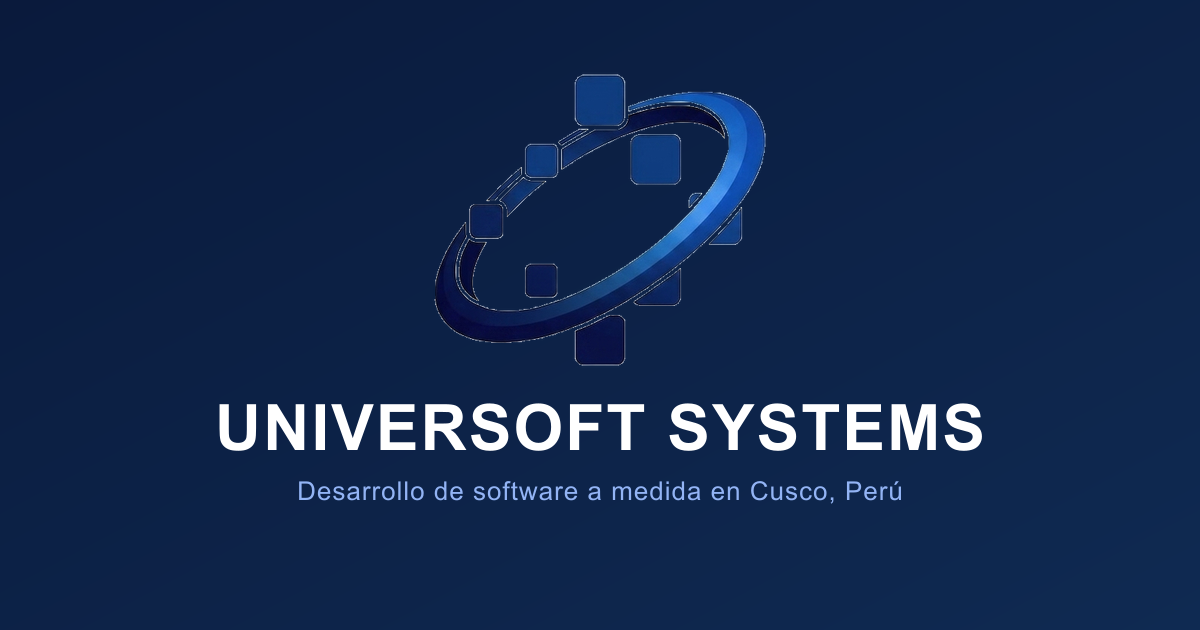
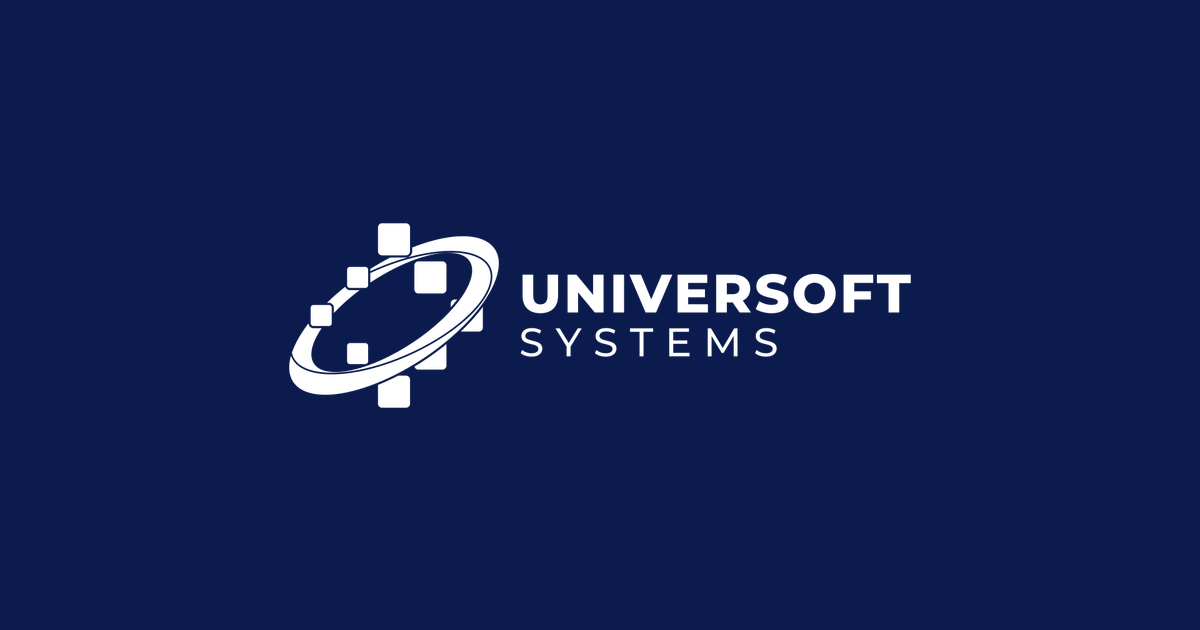
Aplica la nueva identidad de marca (solo visual)
- Tokens de color centralizados en @theme: navy #0b1b4d, azul #2563eb,
  celeste #38a9f5, ambar #f5a524, gris niebla #f3f6fb; se elimina el crema.
- Logos SVG oficiales: horizontal color (encabezado), horizontal invertido
  (pie), isotipo degradado (hero).
- Favicons (svg, ico, apple-touch), theme-color #0b1b4d y OG image regenerada.
- Boton accent en ambar para el CTA principal; primario en azul plano.
- Sin cambios de textos, estructura, URLs ni datos estructurados.

Claude-Session: https://claude.ai/code/session_01M5XXFrHAS3XcbaLjKJHAe7

Changed region(s): [[0.185, 0.1206, 0.8325, 0.7238], [0.2467, 0.754, 0.74, 0.8143]]

diff --git a/src/components/sections/contact/ContactForm.tsx b/src/components/sections/contact/ContactForm.tsx
@@ -197,7 +197,7 @@ export default function ContactForm() {
       <button
         type="submit"
         disabled={status === "sending"}
-        className="w-full rounded-xl bg-gradient-to-r from-blue to-blue-bright py-4 text-base font-semibold text-white shadow-lg shadow-blue/25 transition-all hover:shadow-xl disabled:cursor-not-allowed disabled:opacity-60"
+        className="w-full rounded-xl bg-blue py-4 text-base font-semibold text-white shadow-lg shadow-blue/25 transition-all hover:shadow-xl disabled:cursor-not-allowed disabled:opacity-60"
       >
         {status === "sending" ? "Enviando..." : "Enviar mensaje"}
       </button>

diff --git a/src/styles/global.css b/src/styles/global.css
@@ -1,13 +1,16 @@
 @import "tailwindcss";
 
 @theme {
-  --color-navy: #0a1a3c;
-  --color-navy-deep: #0f2a52;
-  --color-navy-900: #060e1f;
+  --color-navy: #0b1b4d;
+  --color-navy-deep: #1443a0;
+  --color-navy-900: #071332;
   --color-blue: #2563eb;
-  --color-blue-bright: #1e66f5;
+  --color-blue-bright: #38a9f5;
   --color-blue-dark: #1d4ed8;
-  --color-cream: #f5f7f0;
+  --color-amber: #f5a524;
+  --color-amber-text: #b45309;
+  --color-slate: #3e4c63;
+  --color-mist: #f3f6fb;
 
   --font-sans: "Inter Variable", system-ui, sans-serif;
   --font-display: "Space Grotesk", system-ui, sans-serif;
